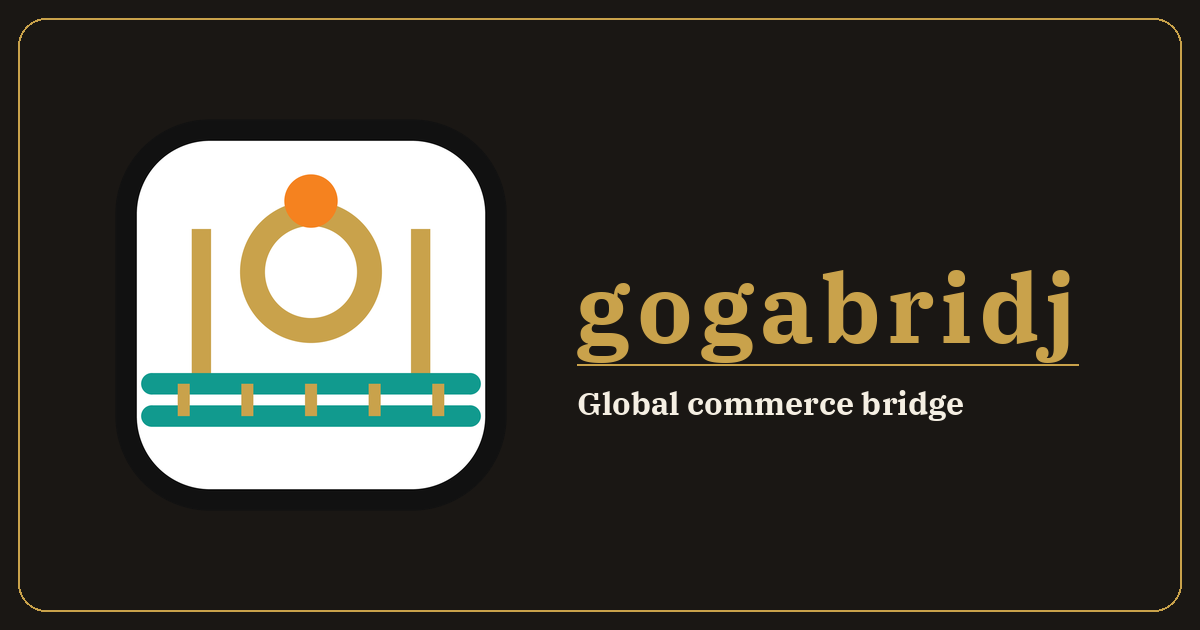
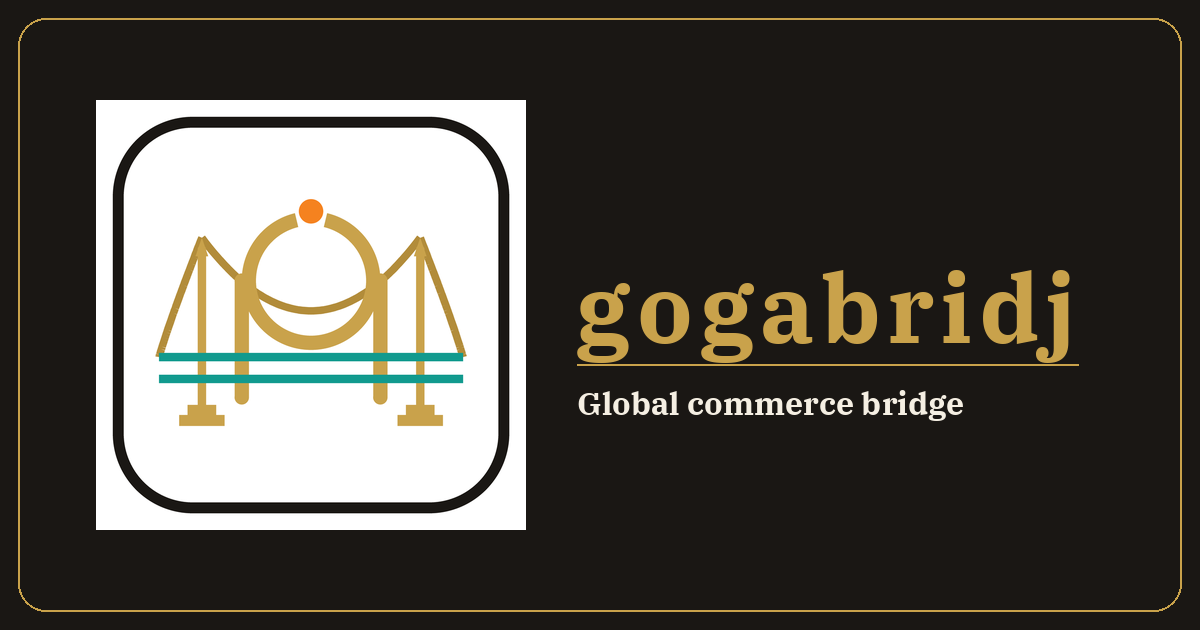
v50 브랜드 아이콘 v8 전면 배포 — og-card 재생성 + 캐시버스트(진단: 배포/캐시 문제)
진단(해시): 커밋된 static 파비콘은 이미 build_icons.py 코드 v8과 해시 정확 일치(favicon·ico·
apple-touch·확장 전부 MATCH)였고 Dockerfile도 COPY src로 포함 → 라이브 불일치는 스테일 파일이
아니라 배포/캐시 문제. 유일 스테일 자산=og-card.png(Jun29, pre-v8 아이콘 임베드)만 재생성.

- og-card.png·assets/og v8 마스터로 재생성(구 아이콘 제거). og ?v=4→5.
- build_icons.py deploy 재실행(출력=커밋본 동일, 신선도 보장). 파비콘 세트 v8 유지.
- 캐시버스트 ?v=180→181(63참조: head 링크·manifest·landing 로고·북마클릿 토스트) → 라이브 강제 재요청.
- 네비바 로고=favicon.svg(v8) ?v 범프(스타일 무변경). 확장 manifest 1.5.50→1.5.51.
- static 구 아이콘(글러브/오빗/지구본) 0, 참조 잔존 0(grep). 폰트·색 변경 0(아이콘·버전만).
- ※ brand_icons_v2/ 디렉토리 레포에 없음 → 코드 v8(build_icons.py)을 정본으로 대조/재생성.
  오너 확정 마스터가 픽셀 다르면 그 PNG 커밋 시 재파생(후속, 문서 명시).
- 가드 test_v50_icon_v8_rollout(5, 해시일치·og멱등·캐시181/5·확장·구아이콘0) + 버전핀 테스트 갱신.
  전체 10957 passed.
- 판정: 배포 후 라이브 favicon-32.png?v=181 md5=d72587e8… 대조. 오너 Render 재배포+강한 새로고침 필요.

Claude-Session: https://claude.ai/code/session_01PxGVkp5f6YphwkqMwzi5ZE

Changed region(s): [[0.0617, 0.1508, 0.4625, 0.8444]]

diff --git a/src/seller_console/templates/_base.html b/src/seller_console/templates/_base.html
@@ -25,15 +25,15 @@
   <title>{% block title %}셀러 콘솔{% endblock %} | {{ _brand_name }}</title>
   <meta property="og:site_name" content="{{ _brand_name }}">
   <meta property="og:title" content="{{ _brand_name }}">
-  <link rel="icon" type="image/svg+xml" href="{{ url_for('seller_console.static', filename='favicon.svg', v='180') }}">
-  <link rel="icon" type="image/x-icon" href="{{ url_for('seller_console.static', filename='favicon.ico', v='180') }}">
-  <link rel="icon" type="image/png" sizes="32x32" href="{{ url_for('seller_console.static', filename='favicon-32.png', v='180') }}">
-  <link rel="icon" type="image/png" sizes="16x16" href="{{ url_for('seller_console.static', filename='favicon-16.png', v='180') }}">
+  <link rel="icon" type="image/svg+xml" href="{{ url_for('seller_console.static', filename='favicon.svg', v='181') }}">
+  <link rel="icon" type="image/x-icon" href="{{ url_for('seller_console.static', filename='favicon.ico', v='181') }}">
+  <link rel="icon" type="image/png" sizes="32x32" href="{{ url_for('seller_console.static', filename='favicon-32.png', v='181') }}">
+  <link rel="icon" type="image/png" sizes="16x16" href="{{ url_for('seller_console.static', filename='favicon-16.png', v='181') }}">
   {# v39-B: 48px PNG + shortcut icon = 브릿지 마크 — 크롬이 북마클릿 드래그 시 이 페이지 파비콘을 북마크에 상속(핵심). #}
-  <link rel="icon" type="image/png" sizes="48x48" href="{{ url_for('seller_console.static', filename='favicon-48.png', v='180') }}">
-  <link rel="shortcut icon" href="{{ url_for('seller_console.static', filename='favicon.ico', v='180') }}">
-  <link rel="apple-touch-icon" href="{{ url_for('seller_console.static', filename='apple-touch-icon.png', v='180') }}">
-  <link rel="manifest" href="{{ url_for('seller_console.static', filename='manifest.webmanifest', v='180') }}">
+  <link rel="icon" type="image/png" sizes="48x48" href="{{ url_for('seller_console.static', filename='favicon-48.png', v='181') }}">
+  <link rel="shortcut icon" href="{{ url_for('seller_console.static', filename='favicon.ico', v='181') }}">
+  <link rel="apple-touch-icon" href="{{ url_for('seller_console.static', filename='apple-touch-icon.png', v='181') }}">
+  <link rel="manifest" href="{{ url_for('seller_console.static', filename='manifest.webmanifest', v='181') }}">
   <meta name="theme-color" content="#f8fafc">
   {# v39-M M1: iOS 홈 화면 설치형 PWA — standalone 실행 + 상태바 + 앱 타이틀(고가브릿지) #}
   <meta name="apple-mobile-web-app-capable" content="yes">

diff --git a/src/templates/_base_app.html b/src/templates/_base_app.html
@@ -13,18 +13,18 @@
   <meta property="og:type" content="website">
   <meta property="og:title" content="{% block og_title %}{{ _brand_name }} — 해외 상품 수집부터 마켓 등록까지 한 번에{% endblock %}">
   <meta property="og:description" content="{% block og_description %}해외 상품을 수집·번역·다듬어 내 마켓에 올리는 구매대행 올인원. 고가브릿지.{% endblock %}">
-  <meta property="og:image" content="{% block og_image %}{{ _og_base }}/seller/static/og-card.png?v=4{% endblock %}">
+  <meta property="og:image" content="{% block og_image %}{{ _og_base }}/seller/static/og-card.png?v=5{% endblock %}">
   <meta property="og:url" content="{{ request.url if request else _og_base }}">
   <meta name="twitter:card" content="summary_large_image">
   <meta name="twitter:title" content="{{ self.og_title() }}">
   <meta name="twitter:description" content="{{ self.og_description() }}">
-  <meta name="twitter:image" content="{{ _og_base }}/seller/static/og-card.png?v=4">
-  <link rel="icon" type="image/svg+xml" href="/seller/static/favicon.svg?v=180">
-  <link rel="icon" type="image/x-icon" href="/seller/static/favicon.ico?v=180">
-  <link rel="icon" type="image/png" sizes="32x32" href="/seller/static/favicon-32.png?v=180">
-  <link rel="icon" type="image/png" sizes="16x16" href="/seller/static/favicon-16.png?v=180">
-  <link rel="apple-touch-icon" href="/seller/static/apple-touch-icon.png?v=180">
-  <link rel="manifest" href="/seller/static/manifest.webmanifest?v=180">
+  <meta name="twitter:image" content="{{ _og_base }}/seller/static/og-card.png?v=5">
+  <link rel="icon" type="image/svg+xml" href="/seller/static/favicon.svg?v=181">
+  <link rel="icon" type="image/x-icon" href="/seller/static/favicon.ico?v=181">
+  <link rel="icon" type="image/png" sizes="32x32" href="/seller/static/favicon-32.png?v=181">
+  <link rel="icon" type="image/png" sizes="16x16" href="/seller/static/favicon-16.png?v=181">
+  <link rel="apple-touch-icon" href="/seller/static/apple-touch-icon.png?v=181">
+  <link rel="manifest" href="/seller/static/manifest.webmanifest?v=181">
   <meta name="theme-color" content="#020010">
   <link rel="stylesheet"
         href="https://cdn.jsdelivr.net/npm/bootstrap@5.3.2/dist/css/bootstrap.min.css">

diff --git a/src/shop/templates/shop/base.html b/src/shop/templates/shop/base.html
@@ -10,10 +10,10 @@
   {% if self.og_image() %}<meta property="og:image" content="{% block og_image %}{% endblock %}">{% endif %}
   <meta property="og:type" content="website">
   <link rel="canonical" href="{% block canonical %}{{ request.url }}{% endblock %}">
-  <link rel="icon" type="image/svg+xml" href="/seller/static/favicon.svg?v=180">
-  <link rel="icon" type="image/x-icon" href="/seller/static/favicon.ico?v=180">
-  <link rel="apple-touch-icon" href="/seller/static/apple-touch-icon.png?v=180">
-  <link rel="manifest" href="/seller/static/manifest.webmanifest?v=180">
+  <link rel="icon" type="image/svg+xml" href="/seller/static/favicon.svg?v=181">
+  <link rel="icon" type="image/x-icon" href="/seller/static/favicon.ico?v=181">
+  <link rel="apple-touch-icon" href="/seller/static/apple-touch-icon.png?v=181">
+  <link rel="manifest" href="/seller/static/manifest.webmanifest?v=181">
   <meta name="theme-color" content="#020010">
   <link rel="stylesheet" href="https://cdn.jsdelivr.net/npm/bootstrap@5.3.0/dist/css/bootstrap.min.css">
   <link rel="stylesheet" href="https://cdn.jsdelivr.net/npm/bootstrap-icons@1.11.0/font/bootstrap-icons.css">

diff --git a/src/dashboard/templates/base.html b/src/dashboard/templates/base.html
@@ -7,10 +7,10 @@
   <title>{% block title %}Admin{% endblock %} | {{ _brand_name }}</title>
   <meta property="og:site_name" content="{{ _brand_name }}">
   <meta property="og:title" content="{{ _brand_name }}">
-  <link rel="icon" type="image/svg+xml" href="/seller/static/favicon.svg?v=180">
-  <link rel="icon" type="image/x-icon" href="/seller/static/favicon.ico?v=180">
-  <link rel="apple-touch-icon" href="/seller/static/apple-touch-icon.png?v=180">
-  <link rel="manifest" href="/seller/static/manifest.webmanifest?v=180">
+  <link rel="icon" type="image/svg+xml" href="/seller/static/favicon.svg?v=181">
+  <link rel="icon" type="image/x-icon" href="/seller/static/favicon.ico?v=181">
+  <link rel="apple-touch-icon" href="/seller/static/apple-touch-icon.png?v=181">
+  <link rel="manifest" href="/seller/static/manifest.webmanifest?v=181">
   <meta name="theme-color" content="#f8fafc">
   <link rel="stylesheet" href="https://cdn.jsdelivr.net/npm/bootstrap@5.3.0/dist/css/bootstrap.min.css">
   <link rel="stylesheet" href="{{ url_for('static', filename='app.css') }}">

diff --git a/src/auth/templates/auth/login.html b/src/auth/templates/auth/login.html
@@ -4,10 +4,10 @@
   <meta charset="utf-8">
   <meta name="viewport" content="width=device-width, initial-scale=1">
   <title>로그인 — 고가브릿지</title>
-  <link rel="icon" type="image/svg+xml" href="/seller/static/favicon.svg?v=180">
-  <link rel="icon" type="image/x-icon" href="/seller/static/favicon.ico?v=180">
-  <link rel="apple-touch-icon" href="/seller/static/apple-touch-icon.png?v=180">
-  <link rel="manifest" href="/seller/static/manifest.webmanifest?v=180">
+  <link rel="icon" type="image/svg+xml" href="/seller/static/favicon.svg?v=181">
+  <link rel="icon" type="image/x-icon" href="/seller/static/favicon.ico?v=181">
+  <link rel="apple-touch-icon" href="/seller/static/apple-touch-icon.png?v=181">
+  <link rel="manifest" href="/seller/static/manifest.webmanifest?v=181">
   <meta name="theme-color" content="#1a1714">
   <link rel="stylesheet" href="https://cdn.jsdelivr.net/npm/bootstrap@5.3.0/dist/css/bootstrap.min.css">
   <link rel="stylesheet" href="{{ url_for('static', filename='app.css') }}">

diff --git a/src/auth/templates/auth/reset.html b/src/auth/templates/auth/reset.html
@@ -4,10 +4,10 @@
   <meta charset="utf-8">
   <meta name="viewport" content="width=device-width, initial-scale=1">
   <title>비밀번호 재설정 — 고가브릿지</title>
-  <link rel="icon" type="image/svg+xml" href="/seller/static/favicon.svg?v=180">
-  <link rel="icon" type="image/x-icon" href="/seller/static/favicon.ico?v=180">
-  <link rel="apple-touch-icon" href="/seller/static/apple-touch-icon.png?v=180">
-  <link rel="manifest" href="/seller/static/manifest.webmanifest?v=180">
+  <link rel="icon" type="image/svg+xml" href="/seller/static/favicon.svg?v=181">
+  <link rel="icon" type="image/x-icon" href="/seller/static/favicon.ico?v=181">
+  <link rel="apple-touch-icon" href="/seller/static/apple-touch-icon.png?v=181">
+  <link rel="manifest" href="/seller/static/manifest.webmanifest?v=181">
   <meta name="theme-color" content="#020010">
   <link rel="stylesheet" href="https://cdn.jsdelivr.net/npm/bootstrap@5.3.0/dist/css/bootstrap.min.css">
   <style>

diff --git a/src/auth/templates/auth/magic_link_request.html b/src/auth/templates/auth/magic_link_request.html
@@ -4,10 +4,10 @@
   <meta charset="utf-8">
   <meta name="viewport" content="width=device-width, initial-scale=1">
   <title>이메일 로그인 — 고가브릿지</title>
-  <link rel="icon" type="image/svg+xml" href="/seller/static/favicon.svg?v=180">
-  <link rel="icon" type="image/x-icon" href="/seller/static/favicon.ico?v=180">
-  <link rel="apple-touch-icon" href="/seller/static/apple-touch-icon.png?v=180">
-  <link rel="manifest" href="/seller/static/manifest.webmanifest?v=180">
+  <link rel="icon" type="image/svg+xml" href="/seller/static/favicon.svg?v=181">
+  <link rel="icon" type="image/x-icon" href="/seller/static/favicon.ico?v=181">
+  <link rel="apple-touch-icon" href="/seller/static/apple-touch-icon.png?v=181">
+  <link rel="manifest" href="/seller/static/manifest.webmanifest?v=181">
   <meta name="theme-color" content="#020010">
   <link rel="stylesheet" href="https://cdn.jsdelivr.net/npm/bootstrap@5.3.0/dist/css/bootstrap.min.css">
   <style>

diff --git a/src/legal/templates/legal/privacy.html b/src/legal/templates/legal/privacy.html
@@ -4,10 +4,10 @@
   <meta charset="utf-8">
   <meta name="viewport" content="width=device-width, initial-scale=1">
   <title>개인정보처리방침 | Privacy Policy</title>
-  <link rel="icon" type="image/svg+xml" href="/seller/static/favicon.svg?v=180">
-  <link rel="icon" type="image/x-icon" href="/seller/static/favicon.ico?v=180">
-  <link rel="apple-touch-icon" href="/seller/static/apple-touch-icon.png?v=180">
-  <link rel="manifest" href="/seller/static/manifest.webmanifest?v=180">
+  <link rel="icon" type="image/svg+xml" href="/seller/static/favicon.svg?v=181">
+  <link rel="icon" type="image/x-icon" href="/seller/static/favicon.ico?v=181">
+  <link rel="apple-touch-icon" href="/seller/static/apple-touch-icon.png?v=181">
+  <link rel="manifest" href="/seller/static/manifest.webmanifest?v=181">
   <meta name="theme-color" content="#020010">
   <link rel="stylesheet" href="https://cdn.jsdelivr.net/npm/bootstrap@5.3.0/dist/css/bootstrap.min.css">
 </head>

diff --git a/src/auth/templates/auth/signup.html b/src/auth/templates/auth/signup.html
@@ -4,10 +4,10 @@
   <meta charset="utf-8">
   <meta name="viewport" content="width=device-width, initial-scale=1">
   <title>회원가입 — 고가브릿지</title>
-  <link rel="icon" type="image/svg+xml" href="/seller/static/favicon.svg?v=180">
-  <link rel="icon" type="image/x-icon" href="/seller/static/favicon.ico?v=180">
-  <link rel="apple-touch-icon" href="/seller/static/apple-touch-icon.png?v=180">
-  <link rel="manifest" href="/seller/static/manifest.webmanifest?v=180">
+  <link rel="icon" type="image/svg+xml" href="/seller/static/favicon.svg?v=181">
+  <link rel="icon" type="image/x-icon" href="/seller/static/favicon.ico?v=181">
+  <link rel="apple-touch-icon" href="/seller/static/apple-touch-icon.png?v=181">
+  <link rel="manifest" href="/seller/static/manifest.webmanifest?v=181">
   <meta name="theme-color" content="#020010">
   <link rel="stylesheet" href="https://cdn.jsdelivr.net/npm/bootstrap@5.3.0/dist/css/bootstrap.min.css">
   <style>

diff --git a/src/onboarding/templates/onboarding.html b/src/onboarding/templates/onboarding.html
@@ -4,10 +4,10 @@
   <meta charset="utf-8">
   <meta name="viewport" content="width=device-width, initial-scale=1">
   <title>처음 오셨나요? | 온보딩</title>
-  <link rel="icon" type="image/svg+xml" href="/seller/static/favicon.svg?v=180">
-  <link rel="icon" type="image/x-icon" href="/seller/static/favicon.ico?v=180">
-  <link rel="apple-touch-icon" href="/seller/static/apple-touch-icon.png?v=180">
-  <link rel="manifest" href="/seller/static/manifest.webmanifest?v=180">
+  <link rel="icon" type="image/svg+xml" href="/seller/static/favicon.svg?v=181">
+  <link rel="icon" type="image/x-icon" href="/seller/static/favicon.ico?v=181">
+  <link rel="apple-touch-icon" href="/seller/static/apple-touch-icon.png?v=181">
+  <link rel="manifest" href="/seller/static/manifest.webmanifest?v=181">
   <meta name="theme-color" content="#020010">
   <link rel="stylesheet" href="https://cdn.jsdelivr.net/npm/bootstrap@5.3.0/dist/css/bootstrap.min.css">
 </head>

diff --git a/src/legal/templates/legal/terms.html b/src/legal/templates/legal/terms.html
@@ -4,10 +4,10 @@
   <meta charset="utf-8">
   <meta name="viewport" content="width=device-width, initial-scale=1">
   <title>이용약관 | Terms of Service</title>
-  <link rel="icon" type="image/svg+xml" href="/seller/static/favicon.svg?v=180">
-  <link rel="icon" type="image/x-icon" href="/seller/static/favicon.ico?v=180">
-  <link rel="apple-touch-icon" href="/seller/static/apple-touch-icon.png?v=180">
-  <link rel="manifest" href="/seller/static/manifest.webmanifest?v=180">
+  <link rel="icon" type="image/svg+xml" href="/seller/static/favicon.svg?v=181">
+  <link rel="icon" type="image/x-icon" href="/seller/static/favicon.ico?v=181">
+  <link rel="apple-touch-icon" href="/seller/static/apple-touch-icon.png?v=181">
+  <link rel="manifest" href="/seller/static/manifest.webmanifest?v=181">
   <meta name="theme-color" content="#020010">
   <link rel="stylesheet" href="https://cdn.jsdelivr.net/npm/bootstrap@5.3.0/dist/css/bootstrap.min.css">
 </head>

diff --git a/src/auth/templates/auth/diagnostic_token_issued.html b/src/auth/templates/auth/diagnostic_token_issued.html
@@ -4,10 +4,10 @@
   <meta charset="utf-8">
   <meta name="viewport" content="width=device-width, initial-scale=1">
   <title>Diagnostic Token 발급됨</title>
-  <link rel="icon" type="image/svg+xml" href="/seller/static/favicon.svg?v=180">
-  <link rel="icon" type="image/x-icon" href="/seller/static/favicon.ico?v=180">
-  <link rel="apple-touch-icon" href="/seller/static/apple-touch-icon.png?v=180">
-  <link rel="manifest" href="/seller/static/manifest.webmanifest?v=180">
+  <link rel="icon" type="image/svg+xml" href="/seller/static/favicon.svg?v=181">
+  <link rel="icon" type="image/x-icon" href="/seller/static/favicon.ico?v=181">
+  <link rel="apple-touch-icon" href="/seller/static/apple-touch-icon.png?v=181">
+  <link rel="manifest" href="/seller/static/manifest.webmanifest?v=181">
   <meta name="theme-color" content="#020010">
   <link rel="stylesheet" href="https://cdn.jsdelivr.net/npm/bootstrap@5.3.0/dist/css/bootstrap.min.css">
 </head>
